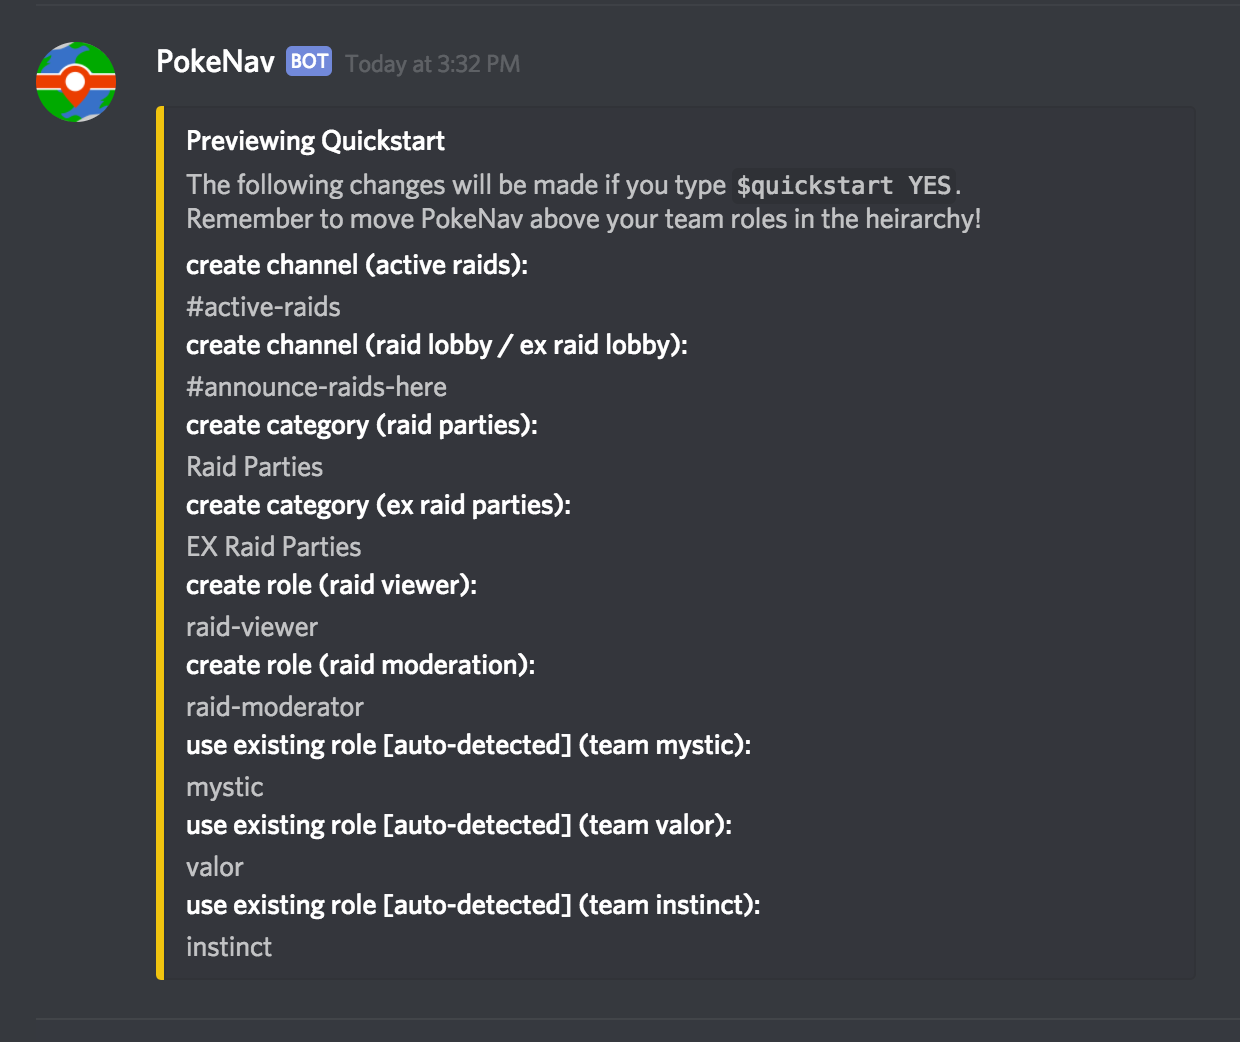
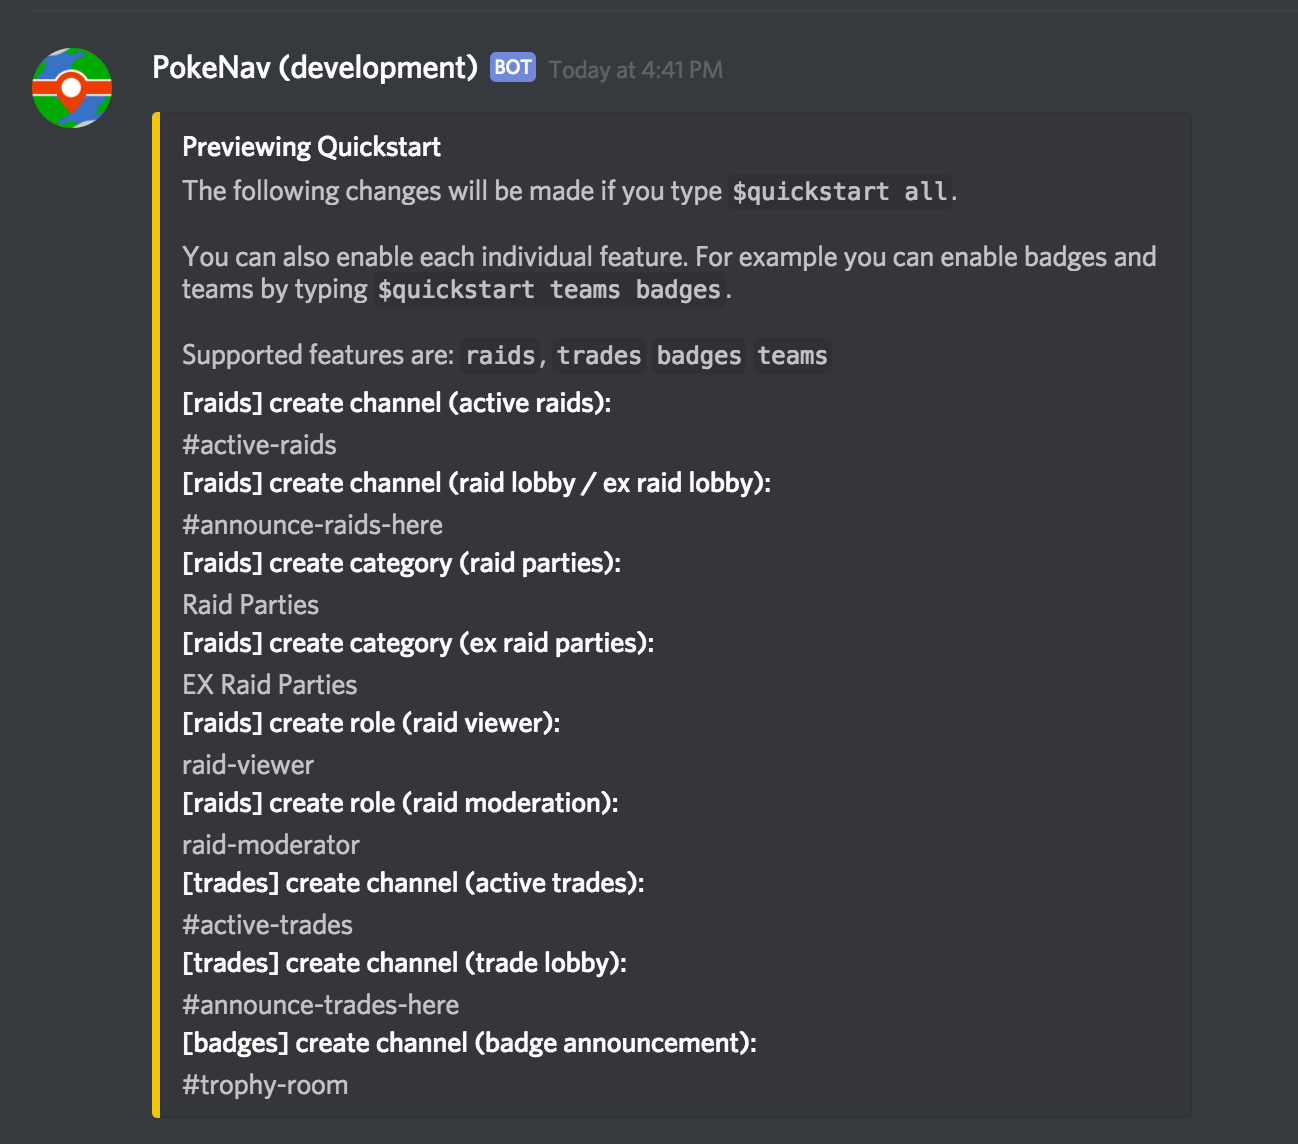
1.15.0

Changed region(s): [[0.0, 0.0307, 0.8887, 0.9827]]

diff --git a/source/trading.md b/source/trading.md
@@ -1,0 +1,71 @@
+# Trading
+
+## Commands
+
+```eval_rst
+.. csv-table:: Announcing and Coordinating Trades
+   :header: "Command", "Who", "Where", "Description"
+   :widths: 15, 10, 10, 20
+
+   ``$want togepi``, Anyone, Trade Lobby, "Asking for a togepi -- no specifications."
+   ``$want togepi shiny``, Anyone, Trade Lobby, "Asking for a shiny togepi."
+   ``$want togepi gender:male``, Anyone, Trade Lobby, "Looking for a male togepi."
+   ``$want togepi gender:female``, Anyone, Trade Lobby, "Looking for a female togepi."
+   ``$want togepi gender:female shiny``, Anyone, Trade Lobby, "Looking for a shiny female togepi."
+   ``$want gengar "move:shadow claw"``, Anyone, Trade Lobby, "Looking for a Gengar with shadow claw."
+   ``$want Exeggutor-Alola``, Anyone, Trade Lobby, "Looking for an exeggutor (alolan form)."
+   ``$want Unown-F``, Anyone, Trade Lobby, "Looking for an Unown (F form)."
+   ``$want Unown "note: A B or C forms"``, Anyone, Trade Lobby, "Looking for an Unown with notes for broad specification."
+   ``$unwant 13``, Anyone, Anywhere, "Deletes trade request with Trade #13 in header."
+   ``$clear-wants``, Anyone, Anywhere, "Deletes all your trade requests."
+```
+
+## Terminology
+
+#### Active Trades
+
+This is a channel where all trades on your server appear. If created by the PokeNav, it is not readable by users and contains a clean copy of all outstanding trade requests.
+
+#### Trade Lobby
+
+Trade lobby is like a raid lobby. Simply put, its a channel where you may announce trades. 
+
+## Features
+
+### Announcing a Trade
+
+You announce a trade with the `$want` command. Its most basic form typically takes a Pokemon's form name, like "Togepi", "Mewtwo" or "Exeggutor-Alola". Form names in PokeNav never have punctuation. When you provide them, if the form contains a space, you must surround it with quotes.
+
+PokeNav is designed to make it easy to request a trade for a Pokemon. If you need to get specific, you can add modifiers. Modifiers are typically a "keyword:value". Sometimes the value is optional. Valid modifiers are:
+
+* `shiny` - Indicates that you want the shiny form.
+* `gender:male` - Indicates you want a certain gender (valid values are male, female, m, f, none).
+* `move:shadow claw` - Indicates you want a specific move. Move must be in PokeNav's movedex (i.e. in the game master file).
+* `note:ash hat / witch hat` - Indicates you are adding a note to specify a special attribute or constraint PokeNav doesn't support. For example hat pikachus or level requirements.
+
+PokeNav only uses the space required if you need a specific modifier. So if you don't specify any moves, PokeNav won't show you moves in the announcement.
+
+The order of modifiers doesn't matter. You can provided all of them or none. If the modifier value has a space, always surround it the entire thing with quotes.
+
+### Limits
+
+You can have up to 3 outstanding trade requests in PokeNav at once.
+
+Trade requests last for at most 3 days, then disappear.
+
+### Responding To A Trade
+
+Trades happen asynchronously. If you see a trade you want to help with, react to the messaged as indicated. The poster will be DM'd by PokeNav to add your friend information and send you a DM to coordinate the trade. 
+
+```eval_rst
+
+.. note::
+    
+    Bots in discord cannot create DMs for users or participate in group DMs, so PokeNav acts like an inbox for coordinating trades.
+```
+
+### Clearing Trades 
+
+When a trade is agreed upon and you no longer need any that Pokemon, you may react to the message with the red X reaction. This will clear all your trade announcements for that trade. You can also clear your trades using `$unwant 14` if 14 is the trade id from any channel or a DM. You can also clear all your trades using `$clear-wants` (though it will clear all your trades on any server). 
+
+Doing this will allow you to request another trade if you'd like.

diff --git a/source/community_setup.md b/source/community_setup.md
@@ -32,7 +32,7 @@ Don't worry, nothing will happen. PokeNav will instead show you a summary of wha
 
 Let's go through what this means. 
 
-PokeNav will do a bunch of things for you if you type `$quickstart YES`. These can be changed, renamed or removed at any time. Lets go through each:
+PokeNav will do a bunch of things for you if you type `$quickstart all`. These can be changed, renamed or removed at any time. Lets go through each:
 
 <dl>
 <dt>Active Raids Channel (#active-raids)</dt>
@@ -50,13 +50,21 @@ PokeNav will do a bunch of things for you if you type `$quickstart YES`. These c
 <dt>Raid Moderator Role (@raid-moderator)</dt>
 <dd>Users in this role will be able to perform privledged actions in raids. This includes ending the raid early, updating the public status or reseting the raid parties arrival status.</dd>
 
+<dt>Active Trades (#active-trades)</dt>
+<dd>A single channel where all trades in your server appear, no one but PokeNav can post here. Gives trainers a clutter-free view of every trade and the option to join any trade.</dd>
+
+<dt>Trade Lobby (#announce-trades-here)</dt>
+<dd>A single channel where users can post new desired trades (wants). Commands to start trades will be ignored anywhere but in this channel.</dd>
+
 <dt>Team Roles (mystic, instinct, valor)</dt>
 <dd>PokeNav will attempt to automatically detect your team roles, or create them if they don't exist. Roles with the words `mystic`, `instinct` or `valor` will be detected automatically.</dd>
 </dl>
 
 Don't worry if everything isn't exactly the way you want it. You can immediatelly rename or delete any channel or role created by `$quickstart`.
 
-Once you run `$quickstart YES` you will have a fully functioning PokeNav installation.
+You can also configure only certain features. For example, `$quickstart trades` will only setup the items in quickstart that start with `[trades]`. Since many features in PokeNav are configured by channel, this will defacto leave them off for your server. You can do this, for example, to use PokeNav for trades, badges and teams but skip raids. In that case, simply run `$quickstart trades badges teams`. Order doesn't mater.
+
+Once you run `$quickstart all` you will have a fully functioning PokeNav installation with all features.
 
 ### Recommendations: Integrating Into An Existing Community
 

diff --git a/source/index.rst b/source/index.rst
@@ -51,6 +51,7 @@ It has many features, including:
    community_setup 
    trainer
    raids
+   trading 
    badges
    leaderboards
    pokedex
